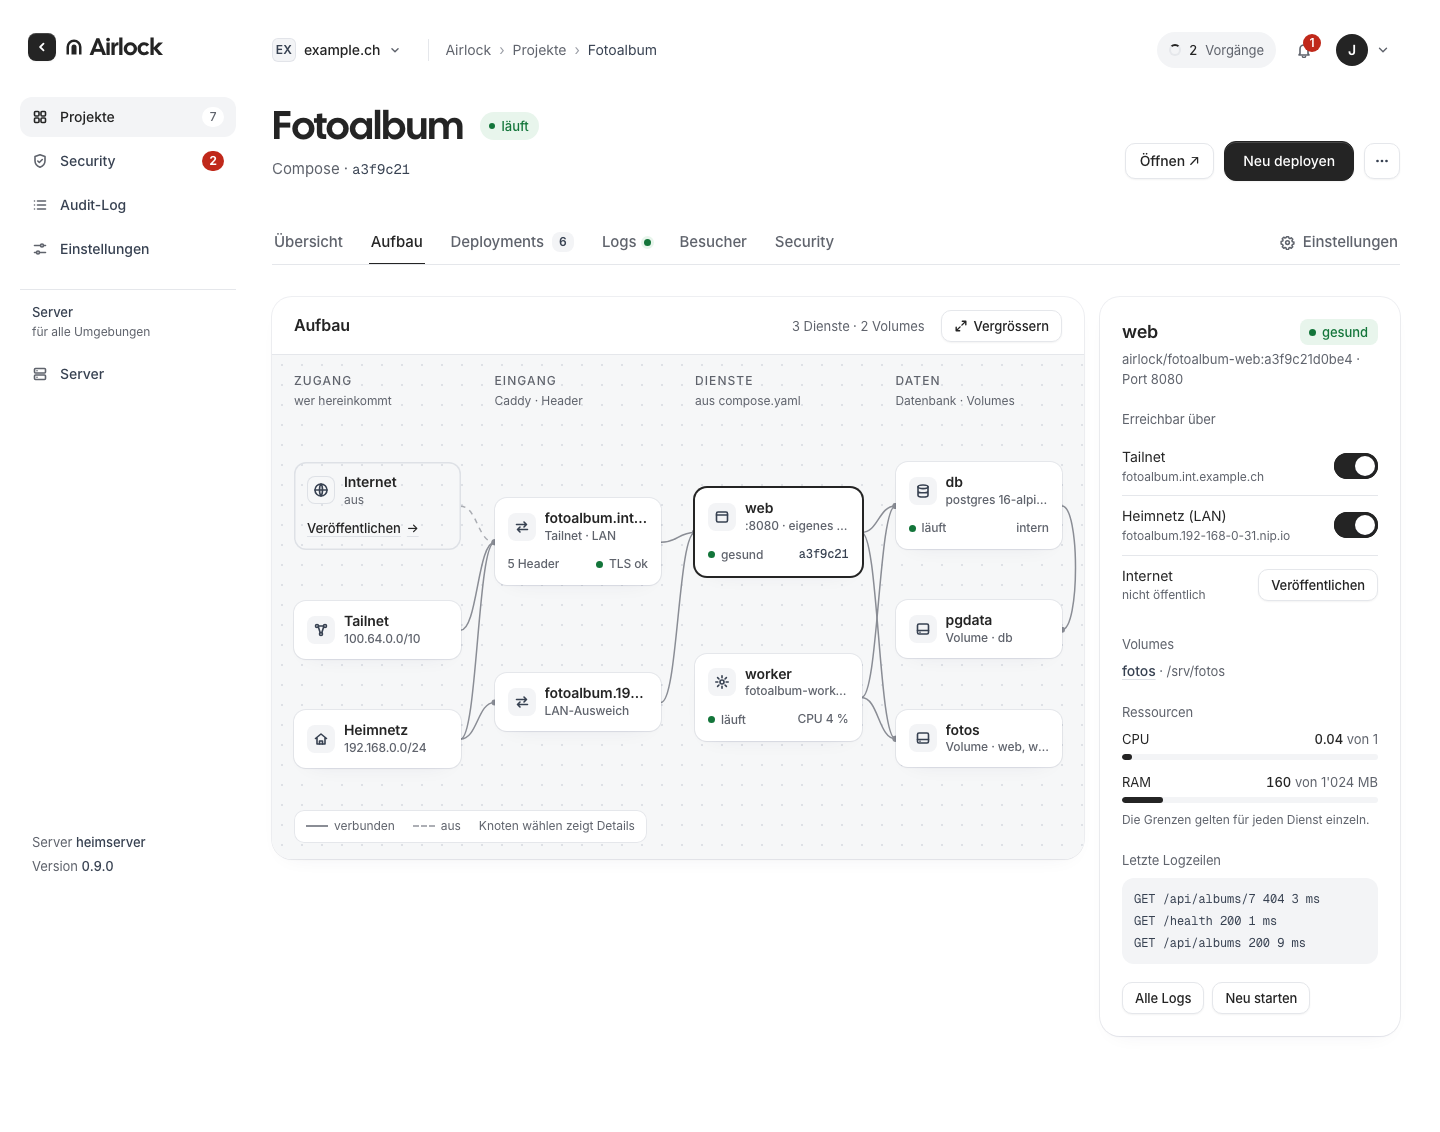
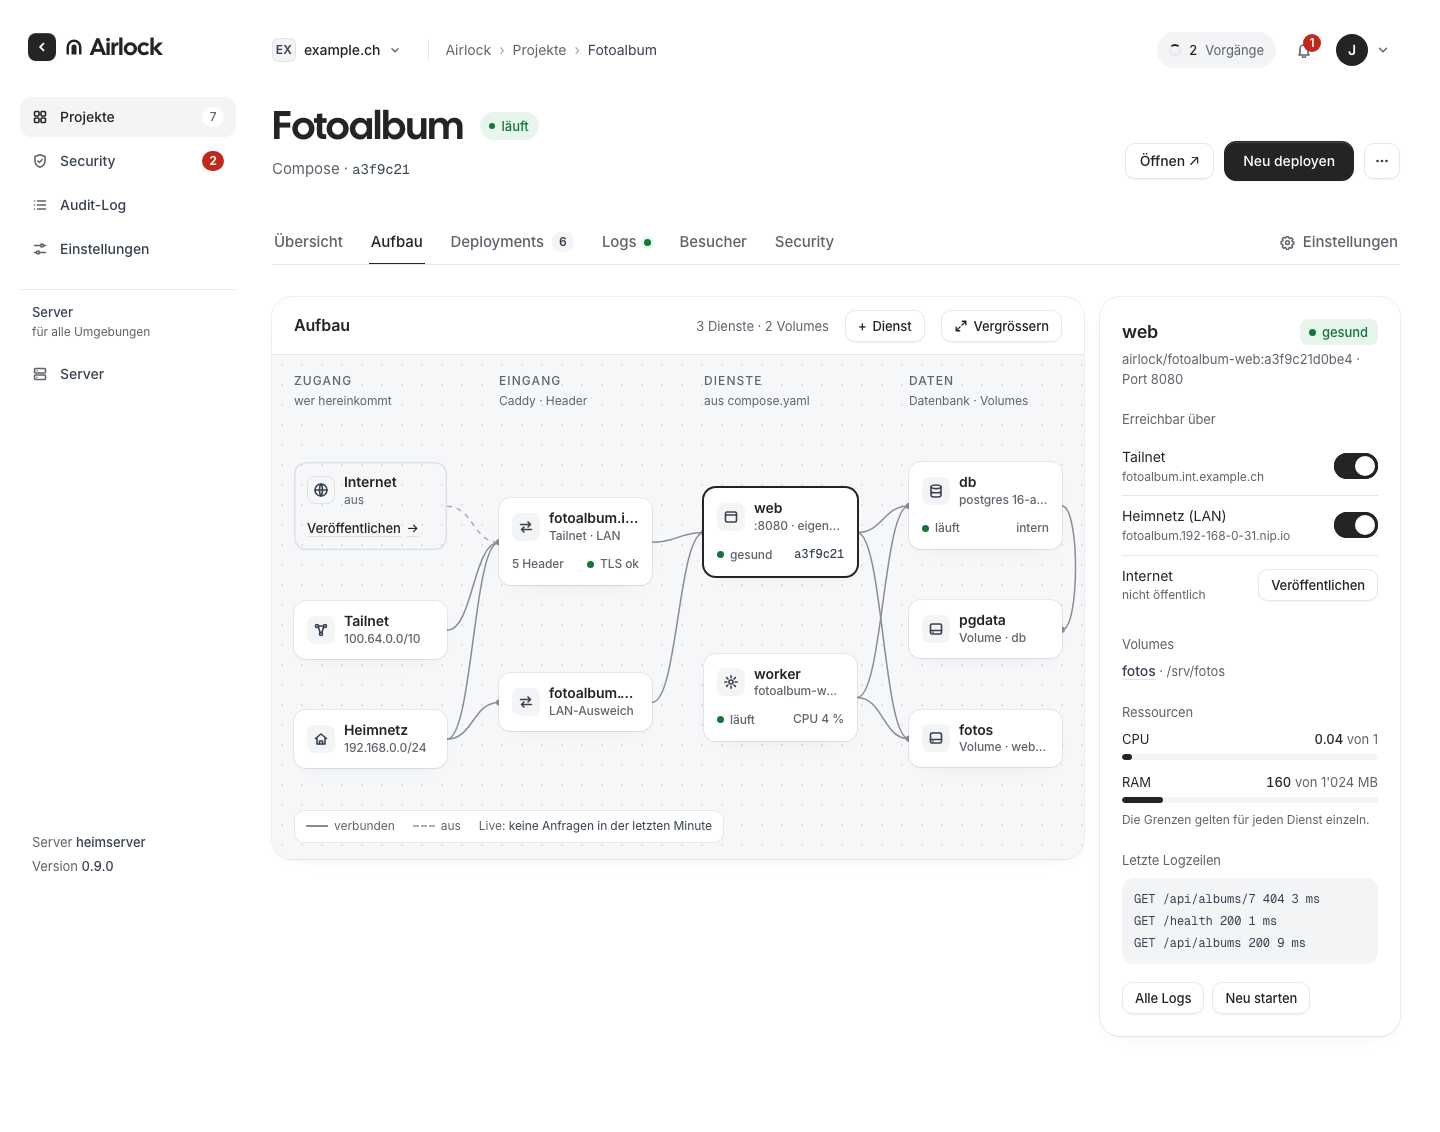
Visuelle Referenzen: Aufbau mit Live-Verkehr und «+ Dienst»
Neu: aufbau-live, aufbau-live-vergroessert, aufbau-dienst-dialog, aufbau-dienst-diff,
aufbau-dienst-wird-erstellt, aufbau-dienst-pr-offen, aufbau-dienst-gescheitert,
aufbau-ohne-github, aufbau-adminer, aufbau-dienst-entfernen (je hell/dunkel).
Geändert: alle bisherigen aufbau-* – Spaltenabstand 34 → 52 px (Platz für die
Zähler «12/min» an den Linien), Legende mit «Live: …» statt «Knoten wählen zeigt
Details»; bei Compose zusätzlich der Knopf «+ Dienst» im Kopf (auch sehr schmal).

diff --git a/packages/web/src/styles.css b/packages/web/src/styles.css
@@ -2439,7 +2439,7 @@ kbd + kbd { margin-left: 4px; }
   background: var(--inset) radial-gradient(var(--line-strong) 1.1px, transparent 1.3px) 0 0 / 20px 20px;
 }
 /* Etappe 4: Abstand trägt die Zähler «12/min» an den Linien (vorher 34 px) */
-.topo-cols-head, .topo-body { display: grid; grid-template-columns: repeat(4, minmax(0, 1fr)); column-gap: 48px; }
+.topo-cols-head, .topo-body { display: grid; grid-template-columns: repeat(4, minmax(0, 1fr)); column-gap: 52px; }
 .topo-col-head { min-width: 0; }
 .topo-col-head h3 { font-size: var(--fs-12); font-weight: 500; line-height: 1.4; letter-spacing: 0.09em; text-transform: uppercase; color: var(--muted); }
 .topo-col-head span { display: block; margin-top: 2px; font-size: var(--fs-12); color: var(--muted); }
@@ -2531,7 +2531,7 @@ button.topo-link:hover:not(:disabled) { background: none; border: none; text-dec
 .topo-live-x { position: absolute; left: 0; top: 0; font-size: var(--fs-13); font-weight: 700; line-height: 1; color: var(--bad); opacity: 0; }
 /* Zähler «12/min» an den Linien: über den Knoten, damit sie auch knapp am Rand lesbar bleiben */
 .topo-rates { position: absolute; inset: 0; z-index: 2; pointer-events: none; }
-.topo-rate { position: absolute; left: 0; top: 0; padding: 0 5px; border-radius: var(--r-sm); background: var(--surface); box-shadow: inset 0 0 0 1px var(--line-strong); font-size: 11px; line-height: 16px; color: var(--ink-dim); white-space: nowrap; }
+.topo-rate { position: absolute; left: 0; top: 0; padding: 0 4px; border-radius: var(--r-sm); background: var(--surface); box-shadow: inset 0 0 0 1px var(--line-strong); font-size: var(--fs-12); line-height: 17px; color: var(--ink-dim); white-space: nowrap; }
 @media (prefers-reduced-motion: reduce) {
   .topo-live-bundle { transition: none; }
 }

diff --git a/packages/web/visual/scenes.ts b/packages/web/visual/scenes.ts
@@ -12,6 +12,10 @@ export const VISUAL_SCENES = [
   // Reiter «Aufbau»: Compose, Einzelcontainer, statisch, nicht öffentlich, Host gewählt, schmal (< 1100 px), sehr schmal (< 700 px),
   // grosser Bildschirm (Seite bis 1440 px), vergrössert (Dialog übers ganze Fenster)
   'aufbau', 'aufbau-einzelcontainer', 'aufbau-statisch', 'aufbau-nicht-oeffentlich', 'aufbau-host', 'aufbau-schmal', 'aufbau-sehr-schmal', 'aufbau-breit', 'aufbau-vergroessert',
+  // Etappe 4: Live-Verkehr (fester Zustand, nur Zähler), auch vergrössert; «+ Dienst» (Vorlage, Diff), neuer Dienst
+  // «wird erstellt», Pull Request offen, gescheitert, ohne GitHub-App, Adminer mit interner Adresse, Entfernen
+  'aufbau-live', 'aufbau-live-vergroessert', 'aufbau-dienst-dialog', 'aufbau-dienst-diff', 'aufbau-dienst-wird-erstellt',
+  'aufbau-dienst-pr-offen', 'aufbau-dienst-gescheitert', 'aufbau-ohne-github', 'aufbau-adminer', 'aufbau-dienst-entfernen',
   'projekt-fehler', 'fehler-build-claude', 'fehler-port', 'fehler-speicher', 'projekt-deployments', 'projekt-logs', 'logs-suche', 'logs-fehler', 'logs-leer', '5-zugriffe',
   // Etappe 3: Besucher (Reiter, Städte, Zugang, intern, Zustände, Wert per Tastatur, Übersicht, Projektliste)
   'besucher', 'besucher-staedte', 'besucher-tailnet', 'besucher-intern', 'besucher-leer', 'besucher-wartet', 'besucher-aus', 'besucher-wert',
